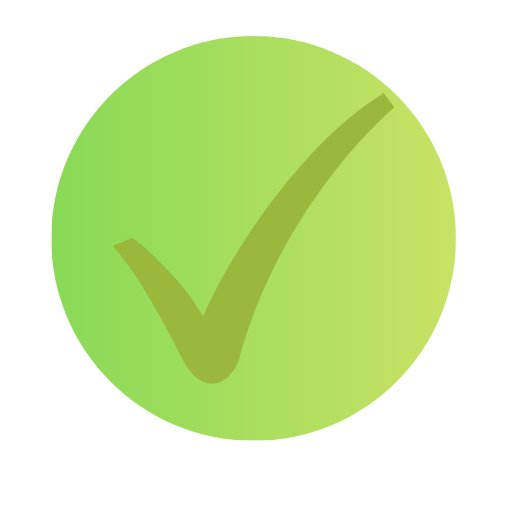
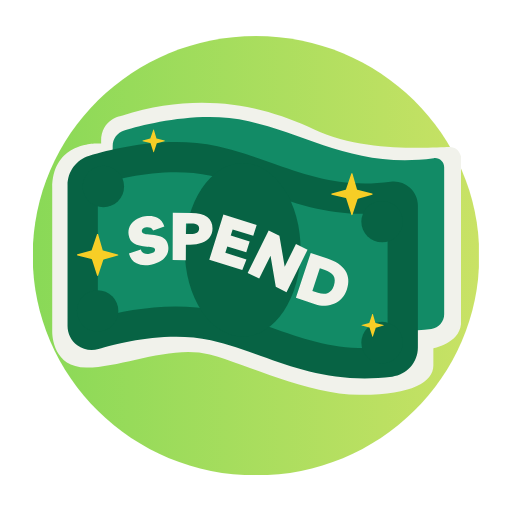
All features complete - lock, year fix, 2-field save

diff --git a/index.html b/index.html
@@ -856,25 +856,38 @@ function askDel(id,mod){delId=id;delMod=mod;document.getElementById('ov').classL
 function closeOv(){document.getElementById('ov').classList.remove('on');delId=null;delMod=null}
 function confirmDel(){
   if(delId&&delMod){
-    // Instantly animate out the item in DOM
-    const el=document.getElementById('hi-'+delId);
-    if(el){
-      el.style.transform='translateX(100%)';
-      el.style.opacity='0';
-      el.style.maxHeight=el.offsetHeight+'px';
-      setTimeout(()=>{
-        el.style.maxHeight='0';
-        el.style.padding='0';
-        el.style.marginBottom='0';
-        el.style.overflow='hidden';
-      },150);
-    }
-    // Remove from DB and save
-    DB[delMod]=DB[delMod].filter(e=>e.id!==delId);
+    const savedId=delId, savedMod=delMod;
+    // Remove from DB immediately
+    DB[savedMod]=DB[savedMod].filter(e=>e.id!==savedId);
     save();
     closeOv();
-    // Re-render after animation completes
-    setTimeout(()=>{refresh(delMod);updateDash();},350);
+    // Animate out the DOM element
+    const el=document.getElementById('hi-'+savedId);
+    if(el){
+      el.style.transition='all .2s ease';
+      el.style.transform='translateX(110%)';
+      el.style.opacity='0';
+      el.style.overflow='hidden';
+      setTimeout(()=>{
+        const h=el.offsetHeight;
+        el.style.maxHeight=h+'px';
+        el.style.transition='max-height .2s ease, padding .2s, margin .2s';
+        requestAnimationFrame(()=>{
+          el.style.maxHeight='0';
+          el.style.paddingTop='0';
+          el.style.paddingBottom='0';
+          el.style.marginBottom='0';
+        });
+        setTimeout(()=>{
+          refresh(savedMod);
+          updateDash();
+        },220);
+      },200);
+    } else {
+      // No DOM element found - just re-render
+      refresh(savedMod);
+      updateDash();
+    }
     toast('Deleted ✓');
   }
 }
@@ -917,19 +930,35 @@ function updateDash(){
   const tots={};let grand=0;const cnts={};
   ['bike','kitchen','food','clothes','friends','others'].forEach(m=>{
     tots[m]=DB[m].reduce((s,e)=>s+(e.total||e.amount||0),0);
-    grand+=tots[m];cnts[m]=DB[m].length;
+    grand+=tots[m];
+    // Count only current month entries
+    cnts[m]=DB[m].filter(e=>(e.date||'').startsWith(new Date().toISOString().slice(0,7))).length;
   });
-  ['bike','kitchen','food','clothes','friends','others'].forEach(m=>{
-    document.getElementById('d-'+m).textContent='Rs '+fmt(tots[m]);
-    const pct=grand>0?Math.min(100,tots[m]/grand*100):0;
+  // Month totals per category
+  const mtots={};
+  mods.forEach(m=>{
+    mtots[m]=DB[m].filter(e=>(e.date||'').startsWith(curMonth))
+      .reduce((s,e)=>s+(e.total||e.amount||0),0);
+  });
+  mods.forEach(m=>{
+    document.getElementById('d-'+m).textContent='Rs '+fmt(mtots[m]);
+    const pct=monthTotal>0?Math.min(100,mtots[m]/monthTotal*100):0;
     document.getElementById('b-'+m).style.width=pct+'%';
   });
-  document.getElementById('d-month').textContent='Rs '+fmt(grand);
-  // Year total = actual sum of all entries (same DB, real data)
-  const yearTotal = ['bike','kitchen','food','clothes','friends','others']
-    .reduce((s,m)=>s+DB[m].reduce((a,e)=>a+(e.total||e.amount||0),0),0);
+  // Filter by current month/year
+  const now=new Date();
+  const curYear=now.getFullYear().toString();
+  const curMonth=now.toISOString().slice(0,7); // "2026-06"
+  const mods=['bike','kitchen','food','clothes','friends','others'];
+  // Month total = entries whose date starts with current month
+  const monthTotal=mods.reduce((s,m)=>s+DB[m].filter(e=>(e.date||'').startsWith(curMonth))
+    .reduce((a,e)=>a+(e.total||e.amount||0),0),0);
+  // Year total = entries whose date starts with current year
+  const yearTotal=mods.reduce((s,m)=>s+DB[m].filter(e=>(e.date||'').startsWith(curYear))
+    .reduce((a,e)=>a+(e.total||e.amount||0),0),0);
+  document.getElementById('d-month').textContent='Rs '+fmt(monthTotal);
   document.getElementById('d-year').textContent='Rs '+fmt(yearTotal);
-  const topM=Object.entries(tots).sort((a,b)=>b[1]-a[1])[0];
+  const topM=Object.entries(mtots).sort((a,b)=>b[1]-a[1])[0];
   if(topM&&topM[1]>0){document.getElementById('d-topcat').textContent=topM[0];document.getElementById('d-topcat-s').textContent='Rs '+fmt(topM[1])}
   const topU=Object.entries(cnts).sort((a,b)=>b[1]-a[1])[0];
   if(topU&&topU[1]>0){document.getElementById('d-topuse').textContent=topU[0];document.getElementById('d-topuse-s').textContent=topU[1]+' entries'}
@@ -1198,7 +1227,11 @@ function saveK(type){
   if(!name){return}
   // Auto-calc missing field if 2 are filled
   const filled=[qty>0,rate>0,total>0].filter(Boolean).length;
-  if(filled<1){document.getElementById('e-'+p).classList.add('on');return}
+  if(filled<2){
+    document.getElementById('e-'+p).classList.add('on');
+    toast('Enter at least 2 of: Qty, Rate, Total');
+    return
+  }
   if(qty>0&&rate>0&&!total) total=parseFloat((qty*rate).toFixed(2));
   else if(total>0&&rate>0&&!qty) qty=parseFloat((total/rate).toFixed(2));
   else if(qty>0&&total>0&&!rate) rate=parseFloat((total/qty).toFixed(2));
@@ -1303,11 +1336,15 @@ function saveF(cat){
   let qty=parseFloat(document.getElementById('f-'+cat+'-qty').value)||0;
   let rate=parseFloat(document.getElementById('f-'+cat+'-rate').value)||0;
   let total=parseFloat(document.getElementById('f-'+cat+'-total').value)||0;
+  // Require at least 2 of 3 fields
+  const filledF=[qty>0,rate>0,total>0].filter(Boolean).length;
+  if(filledF<2&&!(qty>0||total>0)){toast('Enter at least 2 of: Qty, Rate, Total');return}
   // Auto-calc missing field
   if(qty>0&&rate>0&&!total) total=parseFloat((qty*rate).toFixed(2));
   else if(total>0&&rate>0&&!qty) qty=parseFloat((total/rate).toFixed(2));
   else if(qty>0&&total>0&&!rate) rate=parseFloat((total/qty).toFixed(2));
   if(!total&&qty&&rate) total=qty*rate;
+  if(!total){toast('Enter at least 2 of: Qty, Rate, Total');return}
   const notes=document.getElementById('f-'+cat+'-notes').value;
   const place=cat==='restaurant'&&document.getElementById('f-restaurant-place')?document.getElementById('f-restaurant-place').value:'';
   DB.food.unshift({id:Date.now(),cat,name,qty,rate,total,date:today(),notes,place});
@@ -1381,7 +1418,8 @@ function saveC(){
   else if(total>0&&price>0&&!qty) qty=parseFloat((total/price).toFixed(0));
   else if(qty>0&&total>0&&!price) price=parseFloat((total/qty).toFixed(2));
   if(!total&&qty&&price) total=qty*price;
-  if(qty===0&&total===0){document.getElementById('e-c').classList.add('on');return}
+  const filledC=[qty>0,price>0,total>0].filter(Boolean).length;
+  if(filledC<2){document.getElementById('e-c').classList.add('on');toast('Enter at least 2 of: Qty, Price, Total');return}
   const season=document.getElementById('c-season').value;
   const shop=document.getElementById('c-shop').value;
   DB.clothes.unshift({id:Date.now(),name,qty,price,total,season,shop,date:today()});
